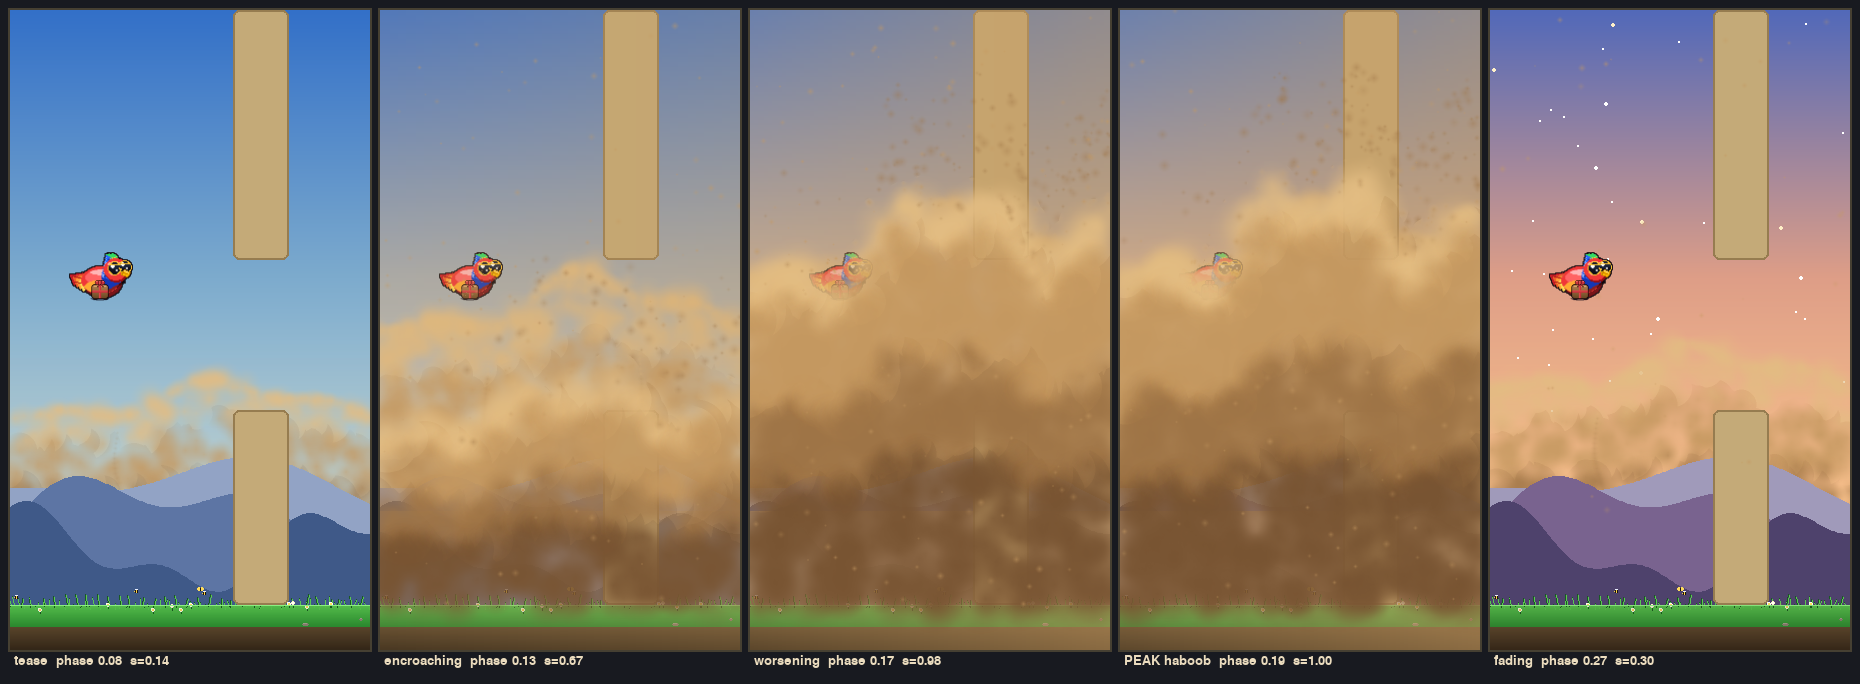
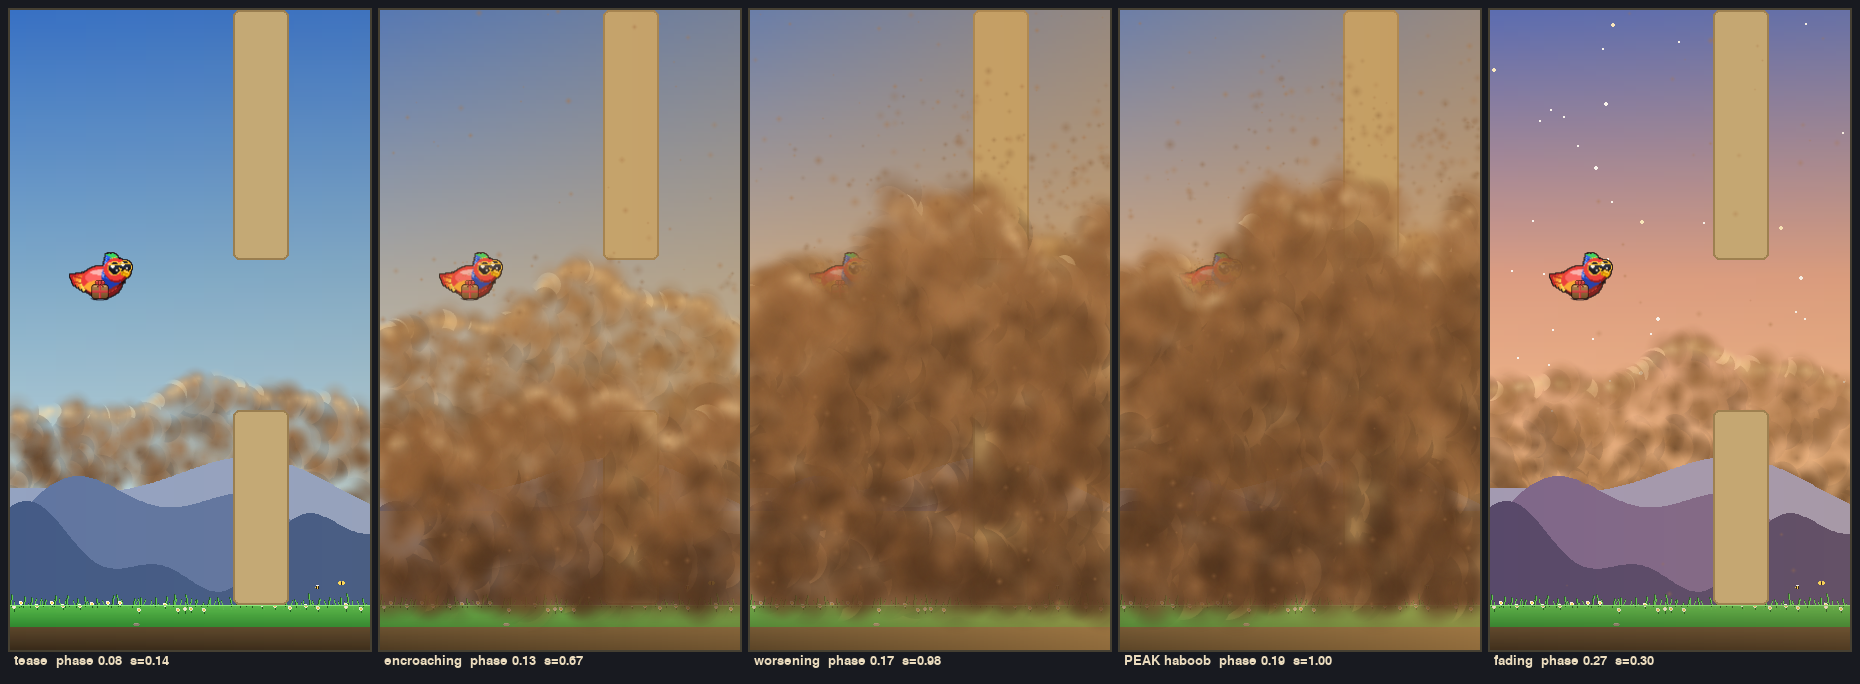
design: sandstorm — use the original haboob palette only
Per feedback: drop the custom ochre ramp + horizon-glow
experiments. Both walls (distant + foreground), dust-devils, grit,
motes and bird coat now use the EXACT original-haboob palette and
color logic (BODY/DEEP mass + HI sunlit rim). The warm haze cast
is present from the start (faint in the tease, ramping to the
peak veil) so the brown dust never sits on stark blue sky. One
scheme = the haboob. Still tooling-only. Tests: 22/22.

Changed region(s): [[0.0, 0.2456, 0.9978, 0.9211], [0.9355, 0.8596, 0.9978, 0.9518], [0.0, 0.8596, 0.1247, 0.8904]]

diff --git a/tools/render_sandstorm.py b/tools/render_sandstorm.py
@@ -39,31 +39,14 @@ OUT_DIR = os.path.join(os.path.dirname(os.path.dirname(__file__)),
                        "docs", "screenshots", "wind_themes", "sandstorm")
 os.makedirs(OUT_DIR, exist_ok=True)
 
-# ONE coherent ochre ramp — same hue, lightness steps from sunlit
-# crest to deep core — so the distant wall, foreground wall,
-# dust-devils, haze, motes and bird coat all read as the SAME sand.
-SAND_LIGHT = (226, 188, 130)        # sunlit crest
-SAND_MID   = (196, 152, 96)
-SAND_DARK  = (158, 116, 70)
-SAND_DEEP  = (120, 84, 50)          # deepest core
-RIM  = SAND_LIGHT
-HAZE = (200, 156, 98)               # cast / veil
-SAND = SAND_MID                     # motes + bird coat
+# EXACT original-haboob palette (theme_haboob) — one scheme for the
+# whole sandstorm, used identically by both walls.
+HI   = ((250, 210, 150), (255, 225, 170))          # sunlit rim
+BODY = ((150, 100, 58), (130, 86, 48), (168, 116, 70))
+DEEP = ((96, 62, 36), (80, 52, 30))
+HAZE = (198, 148, 82)                              # cast / veil
+SAND = (168, 116, 70)                              # motes + bird coat (a body tone)
 HORIZON = GROUND_Y - 70
-
-
-def sand_color(d, dark_bias=0.0):
-    """Depth 0 (sunlit top) -> 1 (deep base) on the shared ramp.
-    `dark_bias` shifts a closer/denser wall toward the dark end
-    while keeping the SAME hue family."""
-    d = min(1.0, max(0.0, d) + dark_bias)
-    if d < 0.25:
-        return SAND_LIGHT
-    if d < 0.55:
-        return SAND_MID
-    if d < 0.80:
-        return SAND_DARK
-    return SAND_DEEP
 
 
 def _smooth(t):
@@ -79,21 +62,6 @@ def sand_intensity(phase):
     if phase <= 0.20:
         return 1.0
     return _smooth(1.0 - (phase - 0.20) / (0.31 - 0.20))
-
-
-def horizon_glow(surf, s):
-    """Warm dusty air around the horizon — present even in the
-    tease so the distant wall doesn't sit starkly on the blue day
-    sky. Ties the whole storm into one warm atmosphere."""
-    if s <= 0.02:
-        return
-    glow = pygame.Surface((W, H), pygame.SRCALPHA)
-    for yy in range(0, GROUND_Y, 2):
-        d = abs(yy - HORIZON)
-        a = int((22 + s * 75) * max(0.0, 1.0 - d / 220.0))
-        if a > 0:
-            pygame.draw.rect(glow, (*HAZE, a), (0, yy, W, 2))
-    surf.blit(glow, (0, 0))
 
 
 # ── DISTANT wall (the long-tease hero, behind the mountains) ─────────────────
@@ -122,11 +90,12 @@ def distant_wall(surf, s, rng):
             yy = rng.uniform(top, base_y + 10 * SS)
             d = (yy - top) / max(1.0, base_y - top)      # 0 top -> 1 base
             r = int(rng.uniform(13, 24) * SS)
-            ss.blit(soft_disc(r, sand_color(d), rng.randint(80, 135)),
+            col = rng.choice(DEEP) if rng.random() < d * 0.85 else rng.choice(BODY)
+            ss.blit(soft_disc(r, col, rng.randint(85, 145)),
                     (gx - r + rng.uniform(-12, 12) * SS, yy - r))
         if rng.random() < 0.6:                 # bright sunlit rim on the crest
             rr = int(rng.uniform(8, 16) * SS)
-            ss.blit(soft_disc(rr, RIM, rng.randint(90, 150)),
+            ss.blit(soft_disc(rr, rng.choice(HI), rng.randint(90, 150)),
                     (gx - rr, top - rr * 0.4))
     blit_ss(surf, ss)
 
@@ -145,7 +114,7 @@ def dust_devils(surf, s, rng):
             wob = math.sin(t * 7.0 + k * 2.0) * 11 * SS * (1 - t)
             r = int((3 + (1 - t) * 9) * SS * (0.6 + s * 0.5))
             a = int((55 + s * 110) * (0.4 + 0.6 * (1 - t)))
-            col = RIM if t > 0.85 else sand_color(0.6)
+            col = rng.choice(HI) if t > 0.85 else rng.choice(BODY)
             ss.blit(soft_disc(r, col, a), (cx + wob - r, gy0 - t * h - r))
     blit_ss(surf, ss)
 
@@ -184,12 +153,12 @@ def foreground_wall(surf, s, rng):
             yy = rng.uniform(top - 8 * SS, gy0)
             d = (yy - top) / max(1.0, gy0 - top)
             r = int(rng.uniform(18, 34) * SS)
-            # same ramp as the distant wall, biased darker (close/dense)
-            ss.blit(soft_disc(r, sand_color(d, 0.18), rng.randint(95, 150)),
+            col = rng.choice(DEEP) if rng.random() < d * 0.85 else rng.choice(BODY)
+            ss.blit(soft_disc(r, col, rng.randint(95, 150)),
                     (gx - r + rng.uniform(-14, 14) * SS, yy - r))
         if rng.random() < 0.5:
             rr = int(rng.uniform(10, 20) * SS)
-            ss.blit(soft_disc(rr, RIM, rng.randint(60, 110)),
+            ss.blit(soft_disc(rr, rng.choice(HI), rng.randint(60, 110)),
                     (gx - rr, top - rr * 0.5))
     for _ in range(int(fs * 170)):
         xf = rng.random() ** 0.5
@@ -198,18 +167,20 @@ def foreground_wall(surf, s, rng):
         if gy < 0:
             continue
         r = rng.randint(3, 8) * SS
-        ss.blit(soft_disc(r, SAND_DARK, rng.randint(50, 110)), (gx - r, gy - r))
+        ss.blit(soft_disc(r, rng.choice(BODY), rng.randint(50, 110)), (gx - r, gy - r))
     blit_ss(surf, ss)
 
 
 def warm_haze(surf, s):
-    if s < 0.30:
+    """The haboob's warm cast, present from the start (faint in the
+    tease) so the dust never sits on stark blue sky; ramps into the
+    full visibility veil at the peak. Right edge (leading) heavier."""
+    if s <= 0.02:
         return
-    t = (s - 0.30) / 0.70
     haze = pygame.Surface((W, H), pygame.SRCALPHA)
     for xx in range(0, W, 2):
         fx = xx / W
-        a = int(t * (70 + fx * 80))
+        a = int(s * (70 + fx * 90))           # faint at tease -> ~160 at peak
         pygame.draw.rect(haze, (*HAZE, a), (xx, 0, 2, H))
     surf.blit(haze, (0, 0))
 
@@ -256,7 +227,6 @@ def scene(phase, rng):
     pal = _biome.palette_for_phase(phase)
     bucket = int((phase % 1.0) * _biome.PHASE_BUCKETS) % _biome.PHASE_BUCKETS
     surf.blit(get_sky_surface_biome(W, H, GROUND_Y, pal, bucket), (0, 0))
-    horizon_glow(surf, s)                     # warm dusty air ties it together
     # distant haboob + devils sit on the horizon, BEHIND the mountains
     distant_wall(surf, s, rng)
     dust_devils(surf, s, rng)
